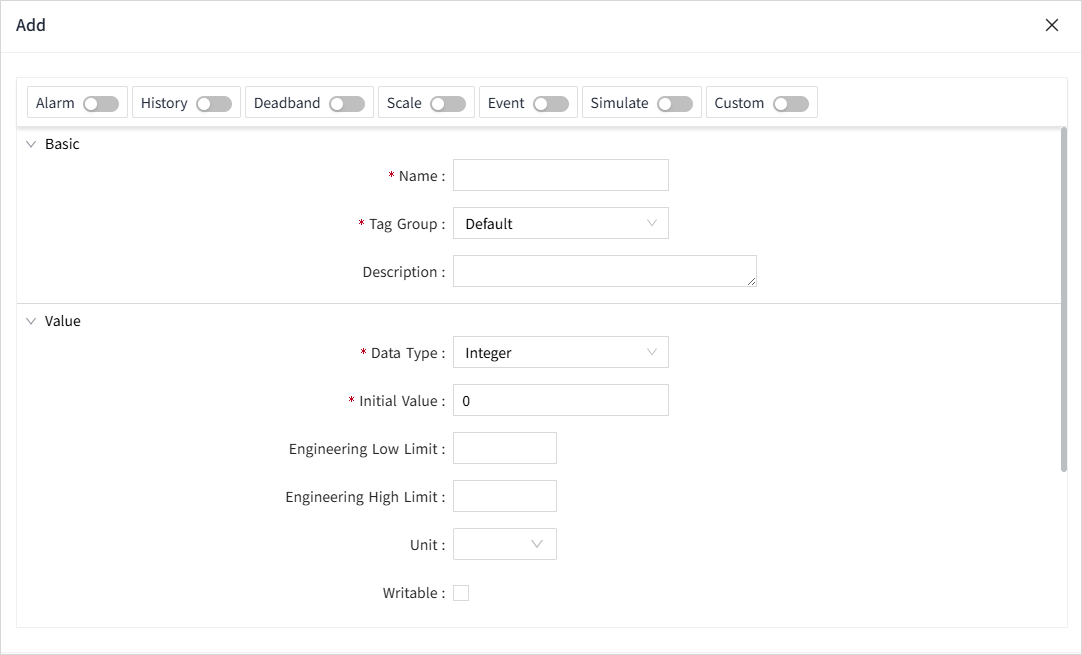
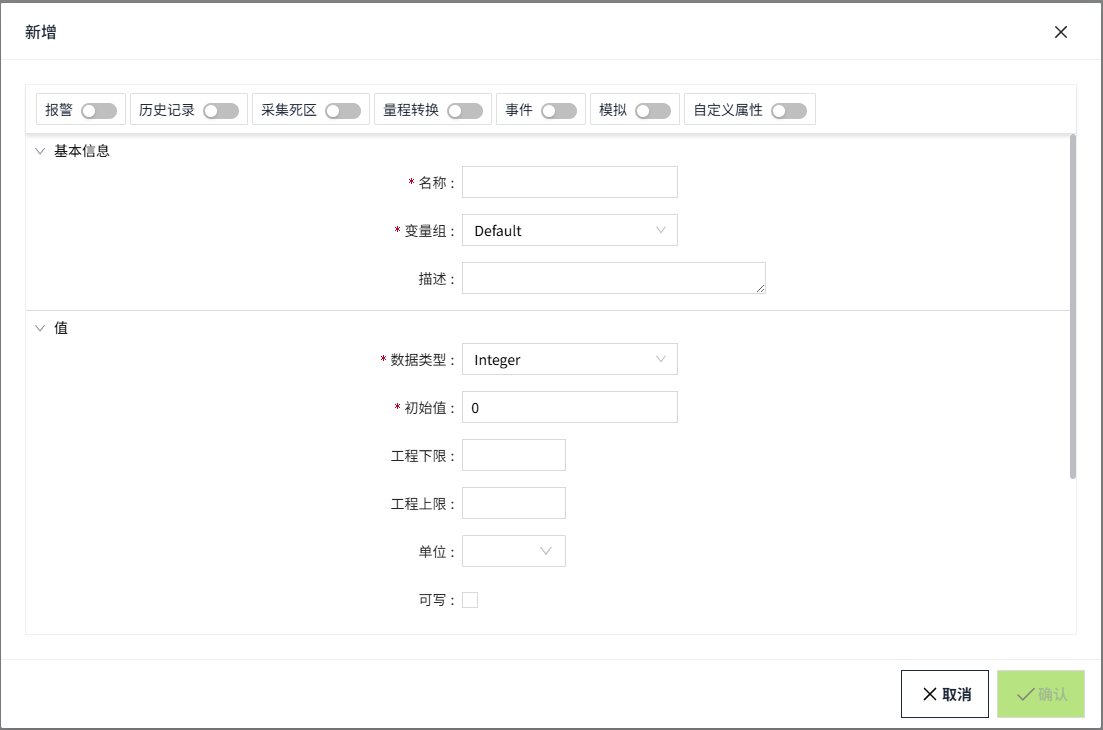
1

diff --git a/docs/management-platform/assets-and-tags/tag/tag-properties/index.md b/docs/management-platform/assets-and-tags/tag/tag-properties/index.md
@@ -22,7 +22,7 @@ I/O变量包含如下属性：
 - 模拟
 - 自定义属性
 
-![img](https://docs.wagoscada.cn/wiki/api/wiki/editor/QHXVK91b/AC1Pp3Ue/resources/O2h0SPgFfDcqqA5mQpWCcZjZFPeojG6mTmKRiN12KKc.png?token=W.YED3ITewg4G1L0-zZH4YrbtwcZUsC5uNDPAzo4mkNFU1woO7zYuTq_bZ_yzzNm4)
+![alt text](1.png)
 
 #### 内存变量
 
@@ -37,7 +37,7 @@ I/O变量包含如下属性：
 - 模拟
 - 自定义属性
 
-![img](https://docs.wagoscada.cn/wiki/api/wiki/editor/QHXVK91b/AC1Pp3Ue/resources/hgS5eShWF84-7wHJdITHt0OEtVgrOY8eC7Jg5LiwOZQ.png?token=W.YED3ITewg4G1L0-zZH4YrbtwcZUsC5uNDPAzo4mkNFU1woO7zYuTq_bZ_yzzNm4)
+![alt text](2.png)
 
 #### 表达式变量
 
@@ -53,5 +53,5 @@ I/O变量包含如下属性：
 - 模拟
 - 自定义属性
 
-![img](https://docs.wagoscada.cn/wiki/api/wiki/editor/QHXVK91b/AC1Pp3Ue/resources/PXz6_O2gmwmFOwhPJ5u1Jkg_wEdLpai1g4ey8gGFOM0.png?token=W.YED3ITewg4G1L0-zZH4YrbtwcZUsC5uNDPAzo4mkNFU1woO7zYuTq_bZ_yzzNm4)
+![alt text](3.png)
 
